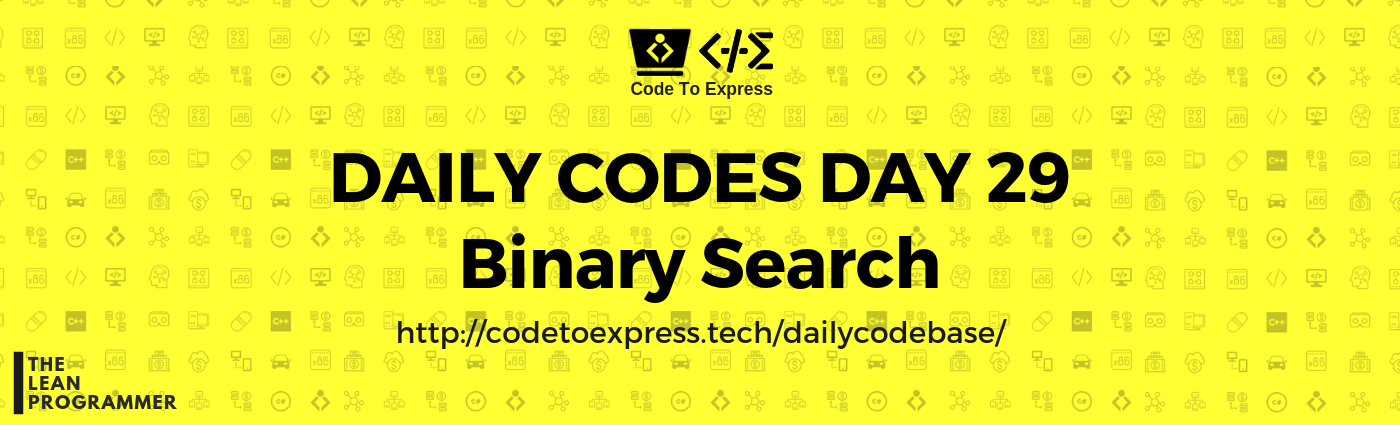
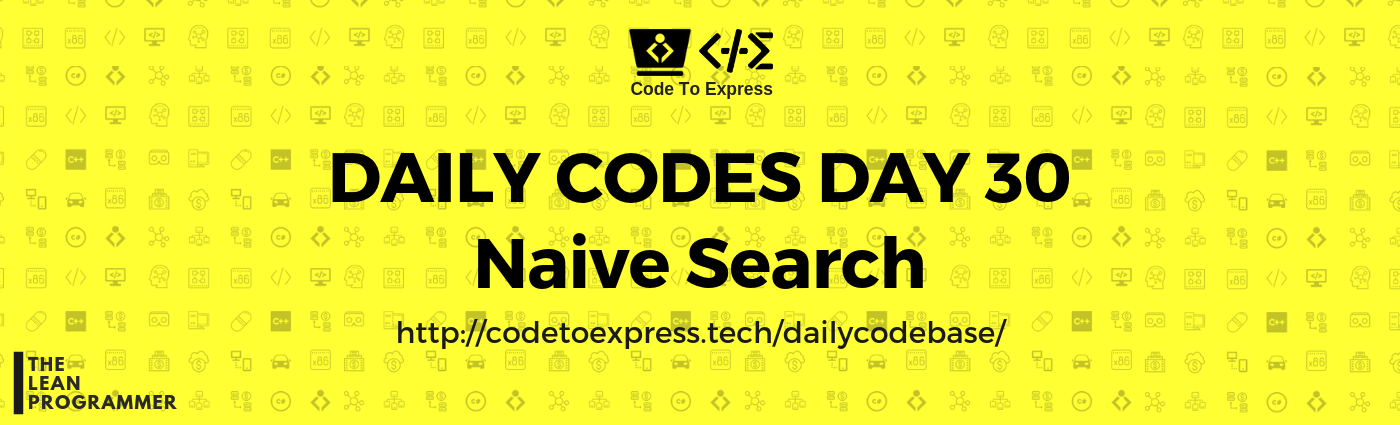
Add day 31

diff --git a/day31/JavaScript/bubblesort.js b/day31/JavaScript/bubblesort.js
@@ -1,0 +1,1 @@
+// to be added

diff --git a/day31/README.md b/day31/README.md
@@ -1,0 +1,28 @@
+![cover](./cover.png)
+
+# Day 31 - Search and Sort Algorithms Part D: Bubble Sort
+
+Now that we've seen some searching algorithms, it's time we proceed with the sorting algorithms. Whenever we look at sorting algorithm, the first algorithm that comes to mind is the easiest one, the bubble sort algorithm, and hence today, we'll be doing the bubble sort.
+
+"Bubble Sort is the simplest sorting algorithm that works by repeatedly swapping the adjacent elements if they are in wrong order." -- (source: GeeksForGeeks)
+
+## Question
+
+Given an unsorted list of elements, write a program to sort the given list using bubble sort.
+
+**Example**
+
+```
+input: [1, 8, 3, 2, 9, 5, 4]
+output: [1, 2, 3, 4, 5, 8, 9]
+```
+
+![ques](./ques.png)
+
+## Solution
+
+### [JavaScript Implementation](./JavaScript/binary.js)
+
+```js
+to be added
+```

diff --git a/day30/README.md b/day30/README.md
@@ -1,6 +1,6 @@
 ![cover](./cover.png)
 
-# Day 29 - Search and Sort Algorithms Part C: Naive Pattern Search
+# Day 30 - Search and Sort Algorithms Part C: Naive Pattern Search
 
 So this week is for searching and sorting algorithms, and we did linear search and binary search yesterday, and today's algorithm would be the Naive Search.
 
